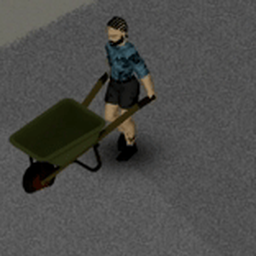
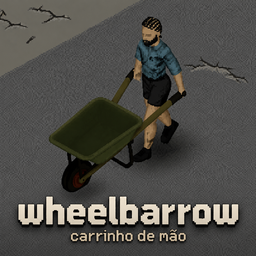
Capa como preview e poster
A capa que o Marcos fez e melhor que o quadro de gravacao que estava ali: ela mostra o
mod funcionando E diz o nome dele, nos dois idiomas. Na miniatura da Workshop, que e
onde a decisao de clicar acontece, isso e a diferenca inteira.

DUAS RESOLUCOES, e nao e escolha. preview.png tem de ser 256x256 EXATO -- conferi antes
de gerar e existe UI_WorkshopError_PreviewDimensions, "must be exactly 256x256 pixels".
poster.png nao tem regra de dimensao e vai a 512, onde o subtitulo "carrinho de mao"
ainda sobrevive; em 256 ele comeca a virar borrao.

LANCZOS e nao NEAREST: a reducao e de 1254 para 256 e o texto e o que mais sofre.
NEAREST preservaria a aparencia de pixel art e destruiria as letras.

A capa entra em assets/source e tools_make_poster.py gera as duas. Ele passa a recusar
capa nao quadrada e arquivo acima do limite de 1000KB da Steam, em vez de gerar algo que
o uploader recusaria depois.

A URL da capa NAO foi para a descricao de proposito: a Steam ja mostra o preview no topo
da pagina do item, entao embutir a mesma imagem no texto a duplicaria -- e o orcamento de
bytes da descricao esta em 32 de margem.

diff --git a/assets/tools_make_poster.py b/assets/tools_make_poster.py
@@ -1,57 +1,55 @@
-"""Gera preview.png e poster.png a partir de um quadro da gravacao em jogo.
+"""Gera preview.png e poster.png a partir da capa.
 
-POR QUE UM QUADRO DE JOGO E NAO UM RENDER: o icone do item ja e renderizado do FBX
-(tools_render_icon.py), e para um icone isso e o certo -- fundo limpo, nenhuma
-distracao. Para a pagina da Workshop e o contrario: o jogador quer ver a coisa
-FUNCIONANDO, com personagem, chao e escala reais. Um render do modelo sozinho nao
-responde "como isso fica no meu jogo".
+DUAS RESOLUCOES, E NAO E ESCOLHA:
 
-POR QUE A GRAVACAO VIVE EM assets/source: sem ela nao ha como regerar as imagens, e
-o uploader da Workshop sobrescreve coisas. Mesma razao pela qual o FBX de origem esta
-versionado -- o repo tem de conseguir reconstruir tudo o que publica.
+  preview.png  256x256 EXATO. O jogo recusa qualquer outra dimensao -- ver
+               UI_WorkshopError_PreviewDimensions, "must be exactly 256x256 pixels".
+               Tambem tem de ficar abaixo de 1000KB.
 
-O QUADRO E O ENQUADRAMENTO foram escolhidos olhando: quadro 12 e o de passada mais
-aberta, que le como "andando" numa imagem estatica, e o recorte e o unico dos tres
-testados que nao corta a roda.
+  poster.png   sem regra de dimensao. Ele aparece na lista de mods do jogo, e os mods
+               instalados usam de 256x256 a 1129x1129. Em 512 o texto da capa
+               sobrevive; em 256 o subtitulo comeca a virar borrao.
+
+A CAPA E ARTE, e nao um render nem um quadro de jogo. Antes daqui o preview era um
+quadro da gravacao, que mostrava o mod funcionando mas nao dizia o nome dele. Uma capa
+com o nome nos dois idiomas resolve as duas coisas na miniatura da Workshop, que e onde
+a decisao de clicar acontece.
+
+LANCZOS e nao NEAREST: a reducao e grande (1254 -> 256) e o texto e o que mais sofre.
+NEAREST preservaria a aparencia de pixel art e destruiria as letras.
 
 Uso:
     python tools_make_poster.py
 """
-import io
 import os
 
 from PIL import Image
 
-#: Gravacao em jogo, na propria arvore do repo.
-SOURCE = os.path.join("source", "andando.gif")
-
-#: Quadro escolhido: passada aberta, cacamba visivel, roda inteira.
-FRAME = 12
-
-#: Recorte quadrado no espaco do GIF (426x240). Centrado no conjunto
-#: personagem + carrinho, com folga para a roda nao encostar na borda.
-CROP = (146, 46, 302, 202)
-
-#: 256x256 e o que o jogo impoe para o preview da Workshop, e e tambem o tamanho
-#: mais comum de poster nos mods instalados -- 13 dos 23 conferidos.
-SIZE = (256, 256)
+SOURCE = os.path.join("source", "capa.png")
 
 TARGETS = (
     # preview da pagina da Workshop, ao lado de workshop.txt
-    os.path.join("..", "preview.png"),
+    (os.path.join("..", "preview.png"), 256),
     # poster da lista de mods, ao lado de mod.info
-    os.path.join("..", "Contents", "mods", "MNWheelbarrow", "42", "poster.png"),
+    (os.path.join("..", "Contents", "mods", "MNWheelbarrow", "42", "poster.png"), 512),
 )
+
+#: Limite da Steam para o preview.
+MAX_BYTES = 1000 * 1024
 
 
 def main():
-    source = Image.open(SOURCE)
-    source.seek(FRAME)
-    image = source.convert("RGB").crop(CROP).resize(SIZE, Image.LANCZOS)
+    source = Image.open(SOURCE).convert("RGB")
+    if source.size[0] != source.size[1]:
+        raise SystemExit("a capa precisa ser quadrada; esta %dx%d" % source.size)
 
-    for target in TARGETS:
-        image.save(target)
-        print("%s %dx%d" % (target, image.size[0], image.size[1]))
+    for target, size in TARGETS:
+        source.resize((size, size), Image.LANCZOS).save(target)
+        written = os.path.getsize(target)
+        if written > MAX_BYTES:
+            raise SystemExit("%s ficou com %d bytes, acima do limite de %d"
+                             % (target, written, MAX_BYTES))
+        print("%s %dx%d  %d bytes" % (target, size, size, written))
 
 
 if __name__ == "__main__":
